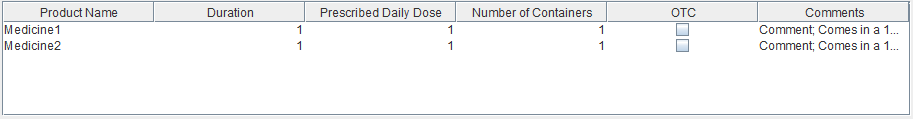
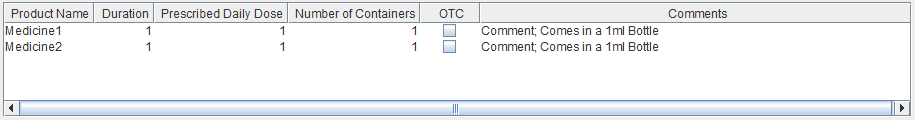
Edited all the tests following UI change

diff --git a/src/pharmacyApplication/PrescriptionUI.java b/src/pharmacyApplication/PrescriptionUI.java
@@ -373,20 +373,20 @@ public class PrescriptionUI {
 		gbc_scrollPane_1.fill = GridBagConstraints.BOTH;
 		gbc_scrollPane_1.gridx = 1;
 		gbc_scrollPane_1.gridy = 5;
-		
+
 		prescriptionTable = new JTable();
 		prescriptionTable.setPreferredScrollableViewportSize(new Dimension(scrollPane_1.WIDTH, scrollPane_1.HEIGHT));
 		prescriptionTable.setShowVerticalLines(false);
 		prescriptionTable.setShowHorizontalLines(false);
 		prescriptionTable.setFillsViewportHeight(true);
-		
-		prescriptionTable.setPreferredScrollableViewportSize(new Dimension(450,1000));
+
+		prescriptionTable.setPreferredScrollableViewportSize(new Dimension(450, 1000));
 		prescriptionTable.setAutoResizeMode(JTable.AUTO_RESIZE_OFF);
-		
+
 		panel.add(scrollPane_1, gbc_scrollPane_1);
-		scrollPane_1.setMinimumSize( scrollPane_1.getPreferredSize() );
+		scrollPane_1.setMinimumSize(scrollPane_1.getPreferredSize());
 		scrollPane_1.setViewportView(prescriptionTable);
-		
+
 		clearButton = new JButton("Clear");
 		clearButton.setEnabled(false);
 		GridBagConstraints gbc_clearButton = new GridBagConstraints();
@@ -605,34 +605,34 @@ public class PrescriptionUI {
 		preDailyDose.setModel(new SpinnerNumberModel(1, 1, maxValue * 2, 1));
 		duration.setModel(new SpinnerNumberModel(1, 1, null, 1));
 	}
-	
+
 	private void resizeColumnWidth(JTable table) {
-	    final TableColumnModel columnModel = table.getColumnModel();
-	    int[] widths = new int[6];
-	    for (int column = 0; column < table.getColumnCount(); column++) {
-	        int width = 100; // Min width
-	        for (int row = 0; row < table.getRowCount(); row++) {
-	            TableCellRenderer renderer = table.getCellRenderer(row, column);
-	            Component comp = table.prepareRenderer(renderer, row, column);
+		final TableColumnModel columnModel = table.getColumnModel();
+		int[] widths = new int[6];
+		for (int column = 0; column < table.getColumnCount(); column++) {
+			int width = 50; // Minimum width
+			for (int row = 0; row < table.getRowCount(); row++) {
+				TableCellRenderer renderer = table.getCellRenderer(row, column);
+				Component comp = table.prepareRenderer(renderer, row, column);
 
-	            width = Math.max(comp.getPreferredSize().width +1 , width);
-	        }
-	        TableColumn tableColumn = columnModel.getColumn(column);
-            TableCellRenderer headerRenderer = tableColumn.getHeaderRenderer();
-            if (headerRenderer == null) {
-                headerRenderer = table.getTableHeader().getDefaultRenderer();
-            }
-            Object headerValue = tableColumn.getHeaderValue();
-            Component headerComp = headerRenderer.getTableCellRendererComponent(table, headerValue, false, false, 0, column);
-            width = Math.max(width, headerComp.getPreferredSize().width) + 10;
-	        columnModel.getColumn(column).setPreferredWidth(width);
-	        widths[column] = width;
-	    }	    
-	    if(IntStream.of(widths).sum() < scrollPane_1.getWidth()) {
-	    	int sum = IntStream.of(Arrays.copyOfRange(widths, 0, 5)).sum();
-	    	columnModel.getColumn(5).setPreferredWidth(scrollPane_1.getWidth() - sum);
-	    }
-
+				width = Math.max(comp.getPreferredSize().width + 1, width);
+			}
+			TableColumn tableColumn = columnModel.getColumn(column);
+			TableCellRenderer headerRenderer = tableColumn.getHeaderRenderer();
+			if (headerRenderer == null) {
+				headerRenderer = table.getTableHeader().getDefaultRenderer();
+			}
+			Object headerValue = tableColumn.getHeaderValue();
+			Component headerComp = headerRenderer.getTableCellRendererComponent(table, headerValue, false, false, 0,
+					column);
+			width = Math.max(width, headerComp.getPreferredSize().width) + 10;
+			columnModel.getColumn(column).setPreferredWidth(width);
+			widths[column] = width;
+		}
+		if (IntStream.of(widths).sum() < scrollPane_1.getWidth()) {
+			int sum = IntStream.of(Arrays.copyOfRange(widths, 0, 5)).sum();
+			columnModel.getColumn(5).setPreferredWidth(scrollPane_1.getWidth() - sum);
+		}
 	}
 
 	private void updatePrescriptionCounter(int prescriptionCounter) {

diff --git a/src/pharmacyApplicationUITesting/TableTests.java b/src/pharmacyApplicationUITesting/TableTests.java
@@ -1,19 +1,107 @@
 package pharmacyApplicationUITesting;
 
+import static org.easymock.EasyMock.createMock;
+import static org.easymock.EasyMock.expect;
+import static org.easymock.EasyMock.expectLastCall;
+import static org.easymock.EasyMock.replay;
+import static org.easymock.EasyMock.verify;
 import static org.junit.Assert.*;
+import static pharmacyApplicationUITesting.HelperFunctions.setUpUI;
+import static pharmacyApplicationUITesting.HelperFunctions.closeUI;
 
+import java.util.Arrays;
+
+import org.junit.After;
 import org.junit.Before;
 import org.junit.Test;
+import org.sikuli.script.FindFailed;
+import org.sikuli.script.Pattern;
+import org.sikuli.script.Screen;
+
+import pharmacyApplication.InterfaceDAL;
+import pharmacyApplication.InterfacePrescription;
+import pharmacyApplication.Medicine;
+import pharmacyApplication.PrescriptionItem;
+import pharmacyApplicationFactories.FactoryDAL;
+import pharmacyApplicationFactories.FactoryPrescription;
 
 public class TableTests {
-
+	private Screen screen;
+	private InterfaceDAL mockDependency;
+	private InterfacePrescription mockDependencyPre;
+	
 	@Before
 	public void setUp() throws Exception {
+		mockDependency = createMock(InterfaceDAL.class);
+		FactoryDAL.setInstance(mockDependency);
+		mockDependency.connect("", "", "");
+		expectLastCall();
+		
+		expect(mockDependency.getPharmaName()).andReturn(Arrays.asList("Medicine1"));
+		
+		mockDependency.setCurrentPharmaName("Medicine1");
+		expectLastCall();
+		
+		expect(mockDependency.getPharmaInfo()).andReturn(Arrays.asList(new Medicine(1, 5, "Bottle", "Comment", 0, 0)));
+		replay(mockDependency);
+		
+		mockDependencyPre = createMock(InterfacePrescription.class);
+		FactoryPrescription.setInstance(mockDependencyPre);
+		
+		setUpUI();
+		screen = new Screen();
+		assertTrue(screen.exists("imgs/add-comment-default.png") != null);
 	}
-
+	
+	@After
+	public void tearDown() {
+		verify(mockDependency);
+		verify(mockDependencyPre);
+		closeUI();
+	}
+	
 	@Test
-	public void test() {
-		fail("Not yet implemented");
+	public void Right_Clicking_Row_Displays_Context_Menu() throws FindFailed, InterruptedException {
+		expect(mockDependencyPre.getNumberOfPharmaceuticals()).andReturn(1).anyTimes();
+		expect(mockDependencyPre.getNumberOfContainers()).andReturn(1).anyTimes();
+		
+		mockDependencyPre.addPrescriptionItem("Medicine1", 1, 1, 1, false, "Comment; Comes in a 1ml Bottle");
+		expectLastCall();
+		expect(mockDependencyPre.getPrescriptionItems()).andReturn(
+				Arrays.asList(new PrescriptionItem("Medicine1", 1, 1, 1, false, "Comment; Comes in a 1ml Bottle")));
+		replay(mockDependencyPre);
+		
+		screen.click("imgs/add-button-active.png");
+		
+		Pattern pattern = new Pattern("imgs/table-one-item.png").similar(1f);
+		screen.rightClick(pattern.targetOffset(0, -30));
+		
+		screen.mouseMove(100, 100);
+		assertTrue(screen.exists("imgs/context-menu.png") != null);
+	}
+	
+	@Test
+	public void Edit_Comment_Button_Displays_Dialogue_Of_Existing_Comment() throws FindFailed, InterruptedException {
+		expect(mockDependencyPre.getNumberOfPharmaceuticals()).andReturn(1).anyTimes();
+		expect(mockDependencyPre.getNumberOfContainers()).andReturn(1).anyTimes();
+		
+		mockDependencyPre.addPrescriptionItem("Medicine1", 1, 1, 1, false, "Comment; Comes in a 1ml Bottle");
+		expectLastCall();
+		expect(mockDependencyPre.getPrescriptionItems()).andReturn(
+				Arrays.asList(new PrescriptionItem("Medicine1", 1, 1, 1, false, "Comment; Comes in a 1ml Bottle")));
+		replay(mockDependencyPre);
+		
+		screen.click("imgs/add-button-active.png");
+		
+		Pattern pattern = new Pattern("imgs/table-one-item.png").similar(1f);
+		screen.rightClick(pattern.targetOffset(0, -30));
+		
+		screen.mouseMove(100, 100);
+		pattern = new Pattern("imgs/context-menu.png").similar(0.9f);
+		screen.click(pattern.targetOffset(0, -10));
+		
+		pattern = new Pattern("imgs/comment-context-box.png").similar(0.99f);
+		assertTrue(screen.exists(pattern) != null);
 	}
 
 }

diff --git a/src/pharmacyApplicationUITesting/ClearButtonTests.java b/src/pharmacyApplicationUITesting/ClearButtonTests.java
@@ -90,7 +90,7 @@ public class ClearButtonTests {
 	}
 
 	@Test
-	public void Clear_Button_Removes_Single_Row() throws FindFailed {
+	public void Clear_Button_Removes_Single_Row() throws FindFailed, InterruptedException {
 		expect(mockDependencyPre.getNumberOfPharmaceuticals()).andReturn(1).anyTimes();
 		expect(mockDependencyPre.getNumberOfContainers()).andReturn(1).anyTimes();
 		mockDependencyPre.addPrescriptionItem("Medicine1", 1, 1, 1, false, "Comment; Comes in a 1ml Bottle");
@@ -113,7 +113,8 @@ public class ClearButtonTests {
 		pattern = new Pattern("imgs/clear-button-active.png").similar(1f);
 		screen.click(pattern);
 
-		pattern = new Pattern("imgs/table-zero-items.png").similar(1f);
+		pattern = new Pattern("imgs/table-zero-items.png").similar(0.99f);
+
 		assertTrue(screen.exists(pattern) != null);
 	}
 
@@ -149,7 +150,7 @@ public class ClearButtonTests {
 		pattern = new Pattern("imgs/clear-button-active.png").similar(1f);
 		screen.click(pattern);
 
-		pattern = new Pattern("imgs/table-zero-items.png").similar(1f);
+		pattern = new Pattern("imgs/table-zero-items.png").similar(0.99f);
 		assertTrue(screen.exists(pattern) != null);
 	}
 }

diff --git a/src/pharmacyApplicationUITesting/RemoveButtonTests.java b/src/pharmacyApplicationUITesting/RemoveButtonTests.java
@@ -115,12 +115,12 @@ public class RemoveButtonTests {
 
 		pattern = new Pattern("imgs/remove-button-active.png").similar(1f);
 		screen.click(pattern);
-		pattern = new Pattern("imgs/table-zero-items.png").similar(1f);
+		pattern = new Pattern("imgs/table-zero-items.png").similar(0.99f);
 		assertTrue(screen.exists(pattern) != null);
 	}
 
 	@Test
-	public void Remove_Button_Removes_Selected_Row() throws FindFailed {
+	public void Remove_Button_Removes_Selected_Row() throws FindFailed, InterruptedException {
 		expect(mockDependencyPre.getNumberOfPharmaceuticals()).andReturn(1).anyTimes();
 		expect(mockDependencyPre.getNumberOfContainers()).andReturn(1).anyTimes();
 		mockDependencyPre.addPrescriptionItem("Medicine1", 1, 1, 1, false, "Comment; Comes in a 1ml Bottle");
@@ -153,6 +153,7 @@ public class RemoveButtonTests {
 		pattern = new Pattern("imgs/remove-button-active.png").similar(1f);
 		screen.click(pattern);
 		pattern = new Pattern("imgs/table-one-item-medicine-two.png").similar(1f);
+
 		assertTrue(screen.exists(pattern) != null);
 	}
 

diff --git a/src/pharmacyApplicationUITesting/AddButtonTests.java b/src/pharmacyApplicationUITesting/AddButtonTests.java
@@ -86,7 +86,7 @@ public class AddButtonTests {
 	}
 
 	@Test
-	public void Add_Button_Adds_Multiple_Medicine_To_Table() throws FindFailed {
+	public void Add_Button_Adds_Multiple_Medicine_To_Table() throws FindFailed, InterruptedException {
 		mockDependencyPre.addPrescriptionItem("Medicine1", 1, 1, 1, false, "Comment; Comes in a 1ml Bottle");
 		expectLastCall();
 		mockDependencyPre.addPrescriptionItem("Medicine2", 1, 1, 1, false, "Comment; Comes in a 1ml Bottle");
@@ -106,7 +106,6 @@ public class AddButtonTests {
 		screen.click(pattern);
 		screen.click("imgs/add-button-active.png");
 		pattern = new Pattern("imgs/table-two-items.png").similar(1f);
-		
 		assertTrue(screen.exists(pattern) != null);
 	}
 
@@ -138,8 +137,7 @@ public class AddButtonTests {
 		screen.type("My Comment");
 
 		screen.click("imgs/ok-button.png");
-		pattern = new Pattern("imgs/table-one-item.png").similar(1f);
-
+		pattern = new Pattern("imgs/table-one-item-edited-comment.png").similar(1f);
 		assertTrue(screen.exists(pattern) != null);
 
 	}

diff --git a/src/pharmacyApplicationUITesting/AllTests.java b/src/pharmacyApplicationUITesting/AllTests.java
@@ -6,7 +6,7 @@ import org.junit.runners.Suite.SuiteClasses;
 
 @RunWith(Suite.class)
 @SuiteClasses({ PrescribedDailyDoseTests.class, DurationTests.class, AddButtonTests.class, AddCommentTests.class,
-		RemoveButtonTests.class, ClearButtonTests.class, ExitButtonTests.class })
+		RemoveButtonTests.class, ClearButtonTests.class, ExitButtonTests.class, TableTests.class})
 public class AllTests {
 
 }
